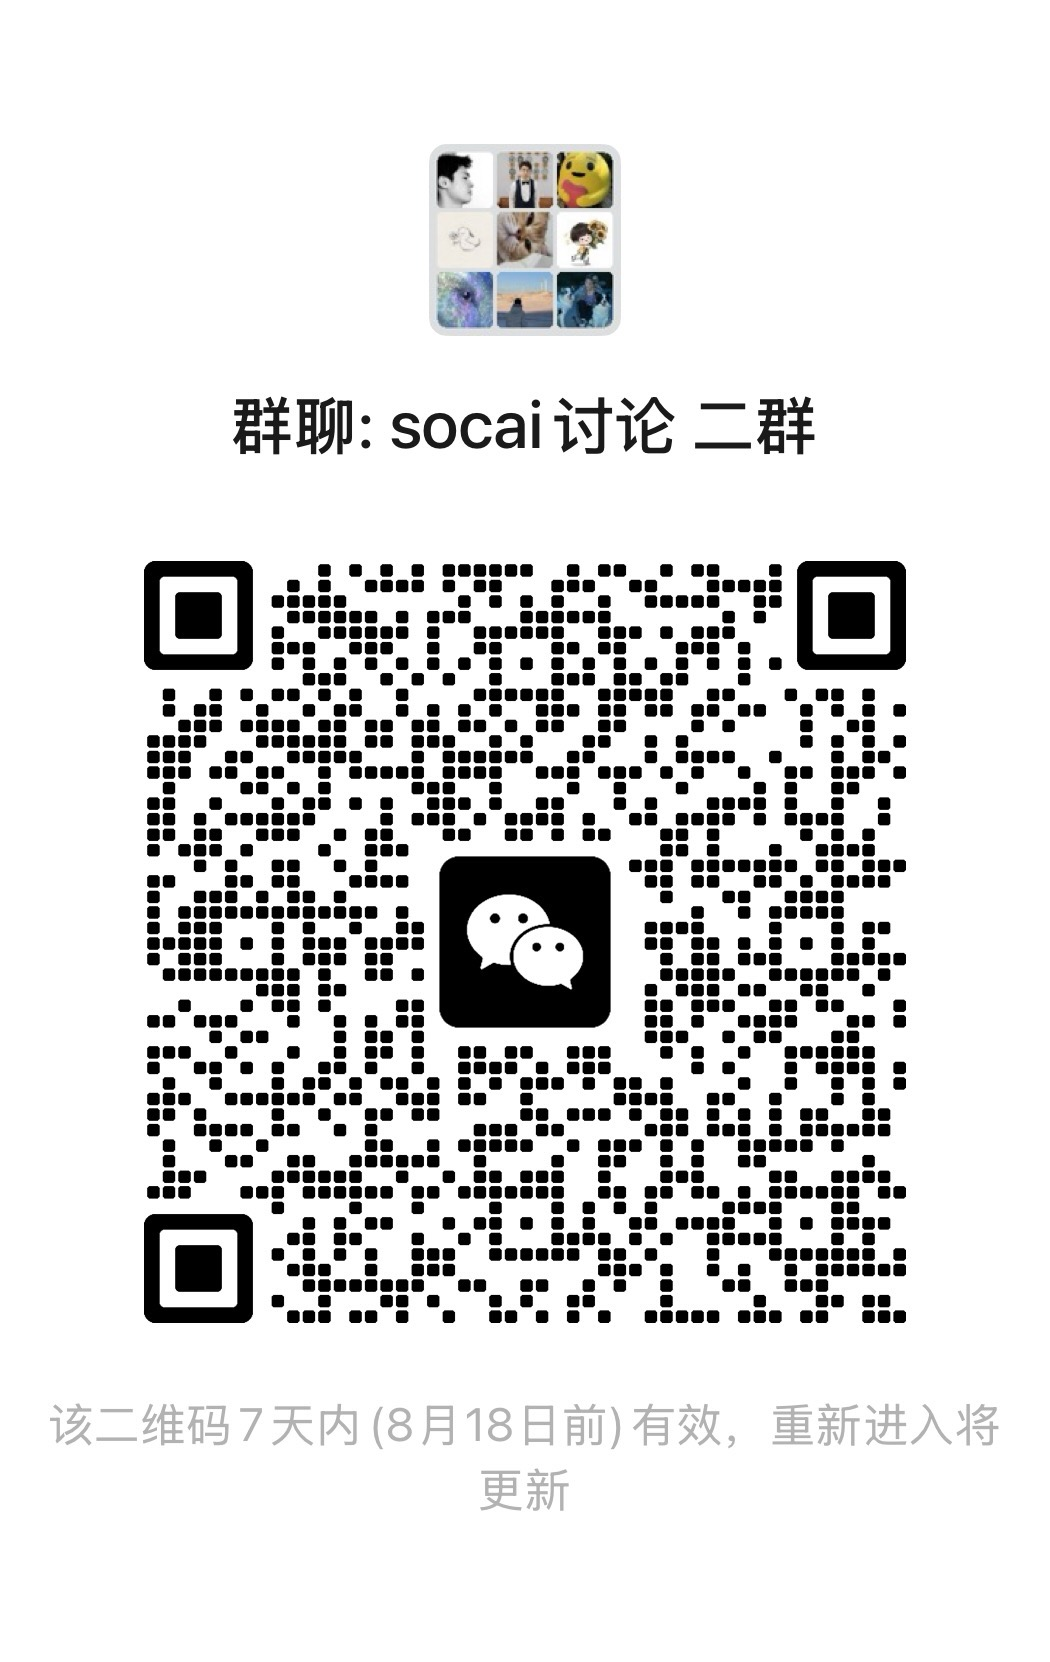
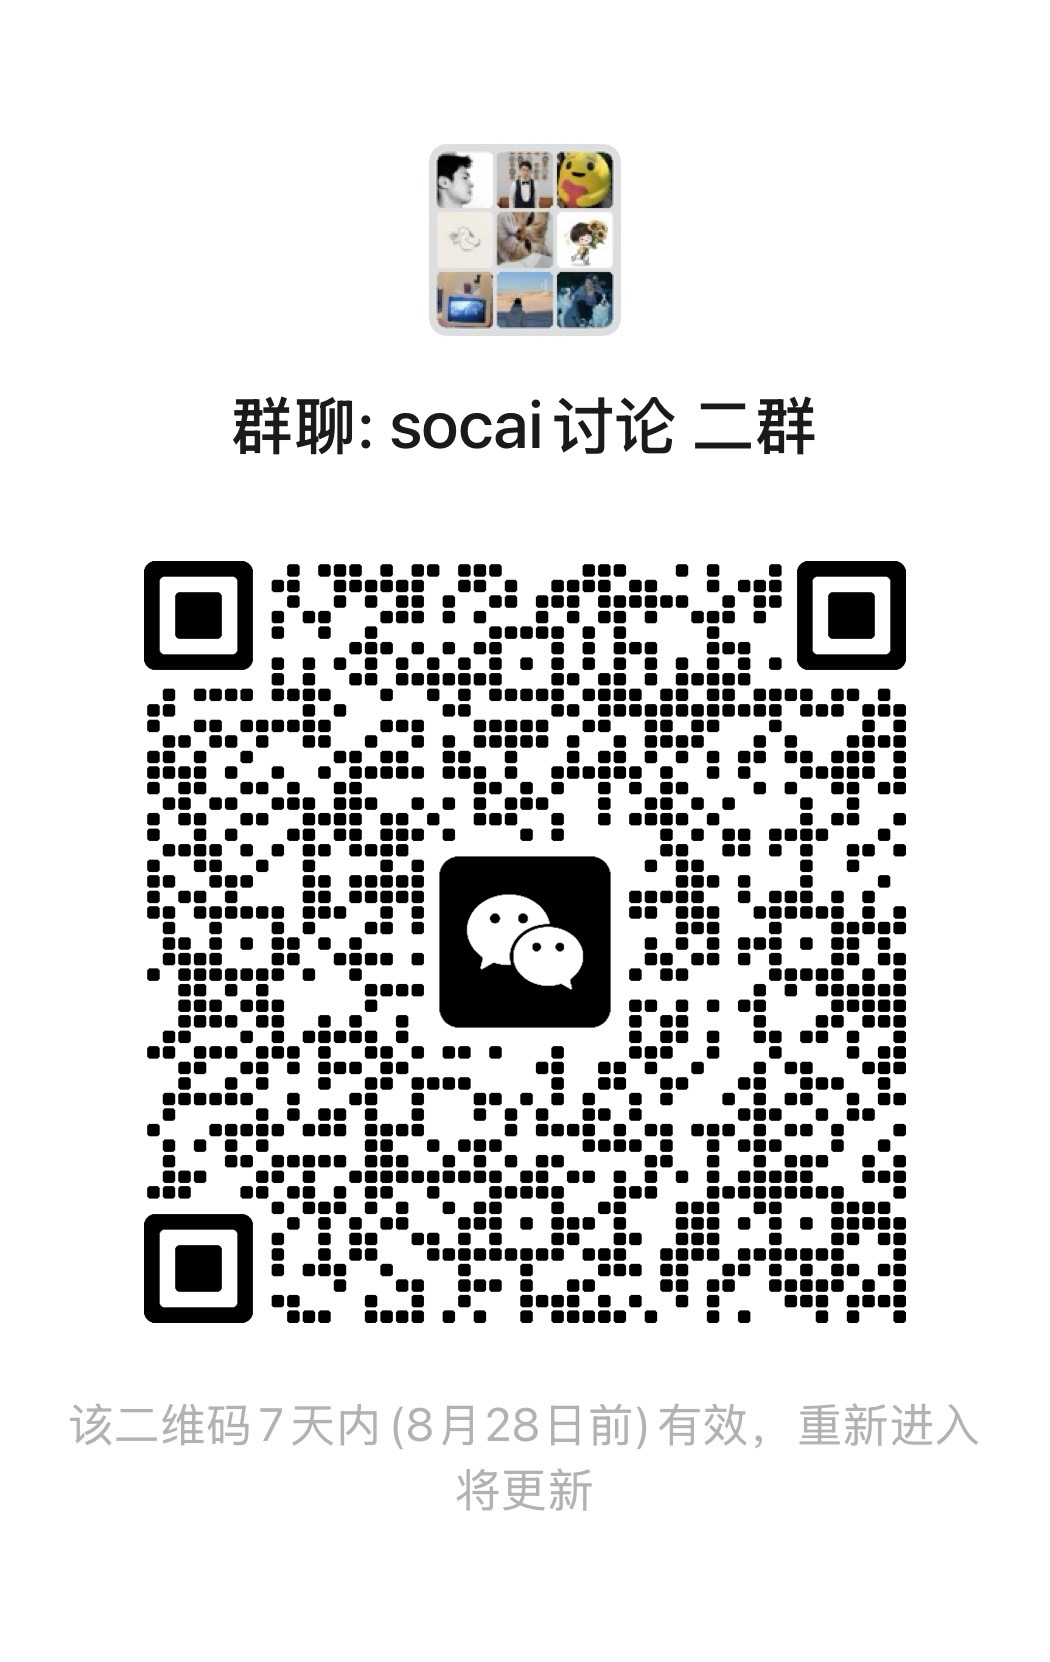
docs: refresh wechat group QR and add Cursor sessionStart reminder hook

diff --git a/AGENTS.md b/AGENTS.md
@@ -112,7 +112,8 @@ are byte-identical copies. WeChat group QR codes expire after 7 days and can't
 be fetched via any API — the user must re-export it manually from WeChat on
 their phone.
 
-A `SessionStart` hook in `.claude/settings.json` checks the file's last git
+A `sessionStart` hook in `.cursor/hooks.json` (and the Claude Code
+`SessionStart` hook in `.claude/settings.json`) checks the file's last git
 commit date and, if ≥6 days old, injects a `[wechat-qr-reminder]`. On seeing it,
 remind the user at the start of your reply.
 
